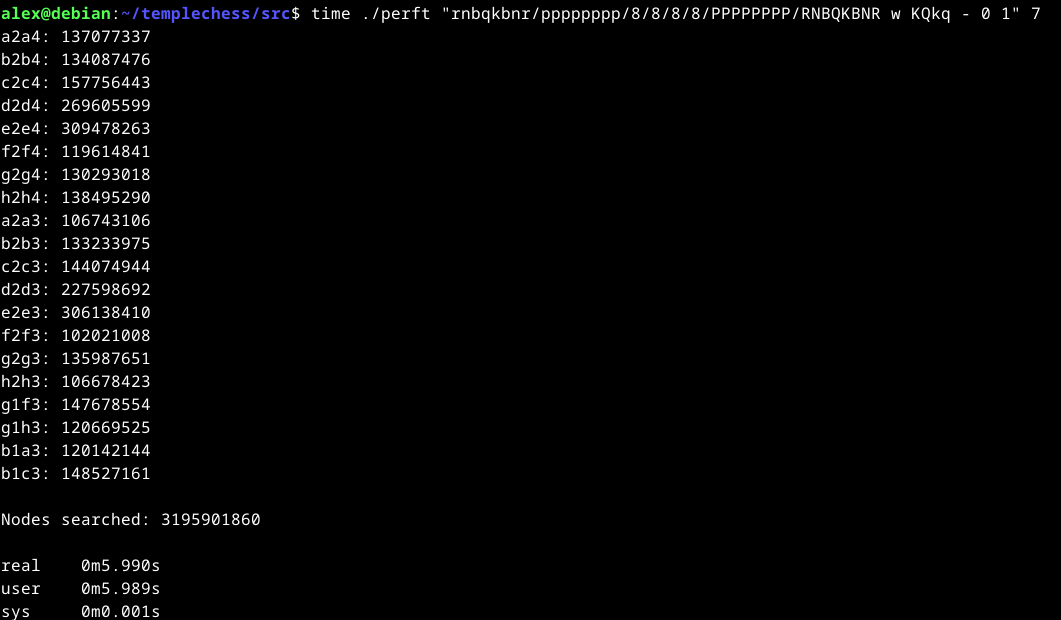
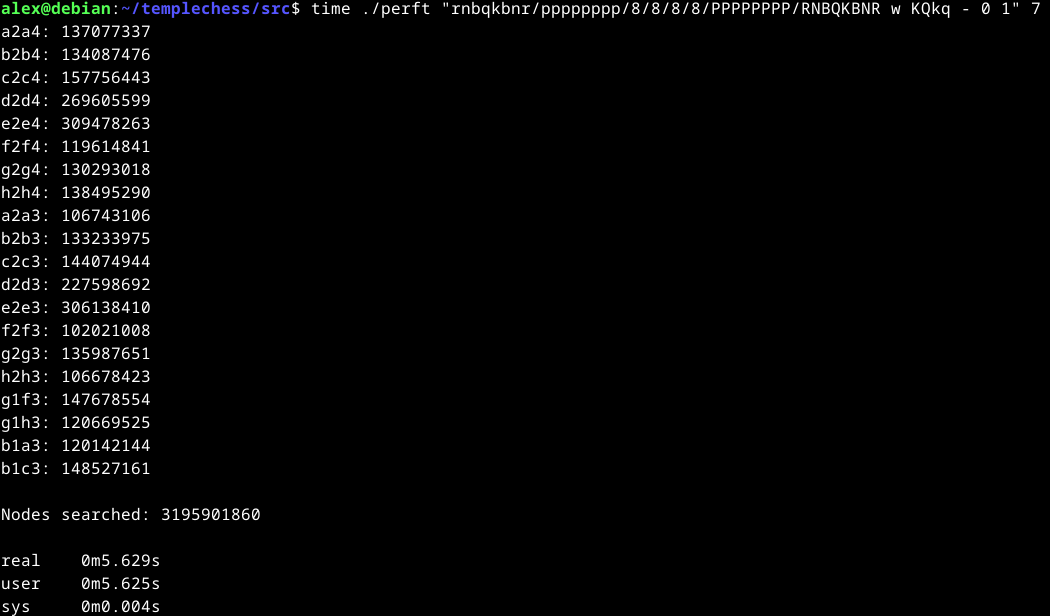
added readme, added gitignore

Changed region(s): [[0.0, 0.0, 1.0, 0.7711], [0.0, 0.8945, 0.1524, 1.0], [0.0, 0.8019, 0.2438, 0.8636]]

diff --git a/src/ChessBoard.c b/src/ChessBoard.c
@@ -7,12 +7,8 @@
 #include "LookupTable.h"
 #include "ChessBoard.h"
 
-// Returns a bitboard representing a set of moves given a set of pawns and a color
-#define PAWN_ATTACKS(b, c) ((c == White) ? BitBoardShiftNW(b) | BitBoardShiftNE(b) : BitBoardShiftSW(b) | BitBoardShiftSE(b))
-
 // Bitboards representing the ranks from the perspective of the given color c
 #define BACK_RANK(c) (BitBoard)((c == White) ? SOUTH_EDGE : NORTH_EDGE)
-
 #define FEN_SIZE 128
 
 static Color getColorFromASCII(char asciiColor);
@@ -90,6 +86,7 @@ static Color getColorFromASCII(char asciiColor)
 {
   return (asciiColor == 'w') ? White : Black;
 }
+
 // Returns the piece type represented by the FEN character (or Empty for '-')
 static Type getTypeFromASCII(char asciiPiece)
 {
@@ -101,6 +98,7 @@ static Type getTypeFromASCII(char asciiPiece)
     return (Type)(ptr - pieces);
   return Empty;
 }
+
 // Returns the ASCII representation of a piece type given its color
 static char getASCIIFromType(Type t, Color c)
 {
@@ -110,7 +108,6 @@ static char getASCIIFromType(Type t, Color c)
   char ch = pieces[t];
   return (c == Black) ? tolower(ch) : ch;
 }
-
 
 // Adds a piece of given type and current turn color to a chessboard; type=Empty clears the square
 static void addPiece(ChessBoard *cb, Square s, Type type)

diff --git a/src/MoveSet.c b/src/MoveSet.c
@@ -298,6 +298,11 @@ void MoveSetPrint(MoveSet ms)
   printf("}\n");
 }
 
+/*
+ * This algorithm can count specific edges at "depth 2" in the tree of moves. It returns
+ * the number of edges that would've been searched had that edge been explored to "depth 1".
+ * Found by: Alex Jasson
+ */
 int MoveSetMultiply(LookupTable l, MoveSet *ms)
 {
   int prevCount = MoveSetCount(ms);

diff --git a/src/ChessBoard.h b/src/ChessBoard.h
@@ -51,6 +51,7 @@ char *ChessBoardToFEN(ChessBoard *cb);
  * Play a move on the given board in-place, recording undo info in Move
  */
 void ChessBoardPlayMove(ChessBoard *cb, Move m);
+
 /*
  * Undo a move previously played with ChessBoardPlayMove
  */

diff --git a/README.md b/README.md
@@ -1,12 +1,18 @@
 # templechess
 
-The goal of this project is to find the number of legal moves branching from any given chess position as fast as possible, with clear minimalistic code. For simplicity, we don't include threading, SIMD instructions or a hash table. With my Intel i5-8400 CPU, it currently completes perft(7) in ~6s which equates to ~530M nodes per second.
-
-It assumes a UNIX-like operating system such as linux or mac and would need to be modified to compile on windows.
+This is an open source chess move generator written in C. The goal of the project is to count the legal number of moves branching from any given chess position as fast as possible on a CPU. It's currently single threaded and doesn't have a hash table. With my Intel i5-8400 (Max 4Ghz), it completes perft(7) in ~5.6s which equates to ~570M nodes per second.
 
 ## Compilation
 
-```
+Prerequisites:
+
+- A UNIX-like OS (Linux or mac)
+- GCC
+- make
+
+From the project root, run:
+
+```bash
 cd src
 make
 ```
@@ -23,6 +29,12 @@ To run the tests:
 
 ```
 ./test
+```
+
+## Getting started
+
+```
+./perft "rnbqkbnr/pppppppp/8/8/8/8/PPPPPPPP/RNBQKBNR w KQkq - 0 1" 7
 ```
 
 ![](<perft(7).png>)
